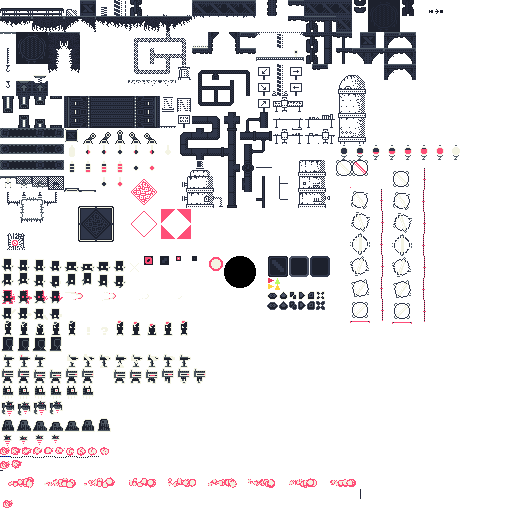
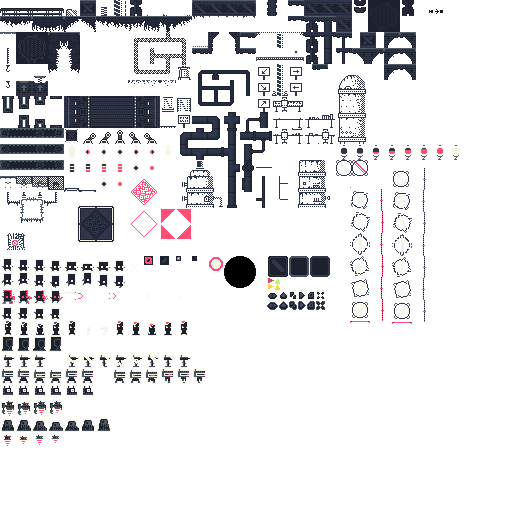
Removed magic animation from tileData and graphics sheet

diff --git a/source/src/projectiles/MagicProjectile.java b/source/src/projectiles/MagicProjectile.java
@@ -105,11 +105,11 @@ public class MagicProjectile extends ProjectileObject {
 	
 	private void setParticleAnimation(SideScroller a) {
 		particleAnimation = new ArrayList<PImage>();
-		PImage image = Tileset.getTile("Particle");
+		PImage image = Tileset.getTile("MAGIC_SOURCE");
 		float scale = 0.12f;
 		float angle = PApplet.radians(11);
 		while(scale > 0.025f) {
-			particleAnimation.add(util.pg(util.resizeImage(util.rotateImage(image, angle), scale),4));
+			particleAnimation.add(util.pg(util.resizeImage(util.rotateImage(image.copy(), angle), scale),4));
 			angle += PApplet.radians(PApplet.radians(11));
 			scale -= Math.random() * 0.03;
 		}

diff --git a/source/src/objects/MagicSourceObject.java b/source/src/objects/MagicSourceObject.java
@@ -89,11 +89,11 @@ public class MagicSourceObject extends GameObject {
 	
 	private void setParticleAnimation(SideScroller a) {
 		particleAnimation = new ArrayList<PImage>();
-		PImage image = Tileset.getTile("Particle");
+		PImage image = Tileset.getTile("MAGIC_SOURCE");
 		float scale = 0.12f;
 		float angle = PApplet.radians(11);
 		while(scale > 0.025f) {
-			particleAnimation.add(util.pg(util.resizeImage(util.rotateImage(image, angle), scale),4));
+			particleAnimation.add(util.pg(util.resizeImage(util.rotateImage(image.copy(), angle), scale),4));
 			angle += PApplet.radians(PApplet.radians(11));
 			scale -= Math.random() * 0.03;
 		}
